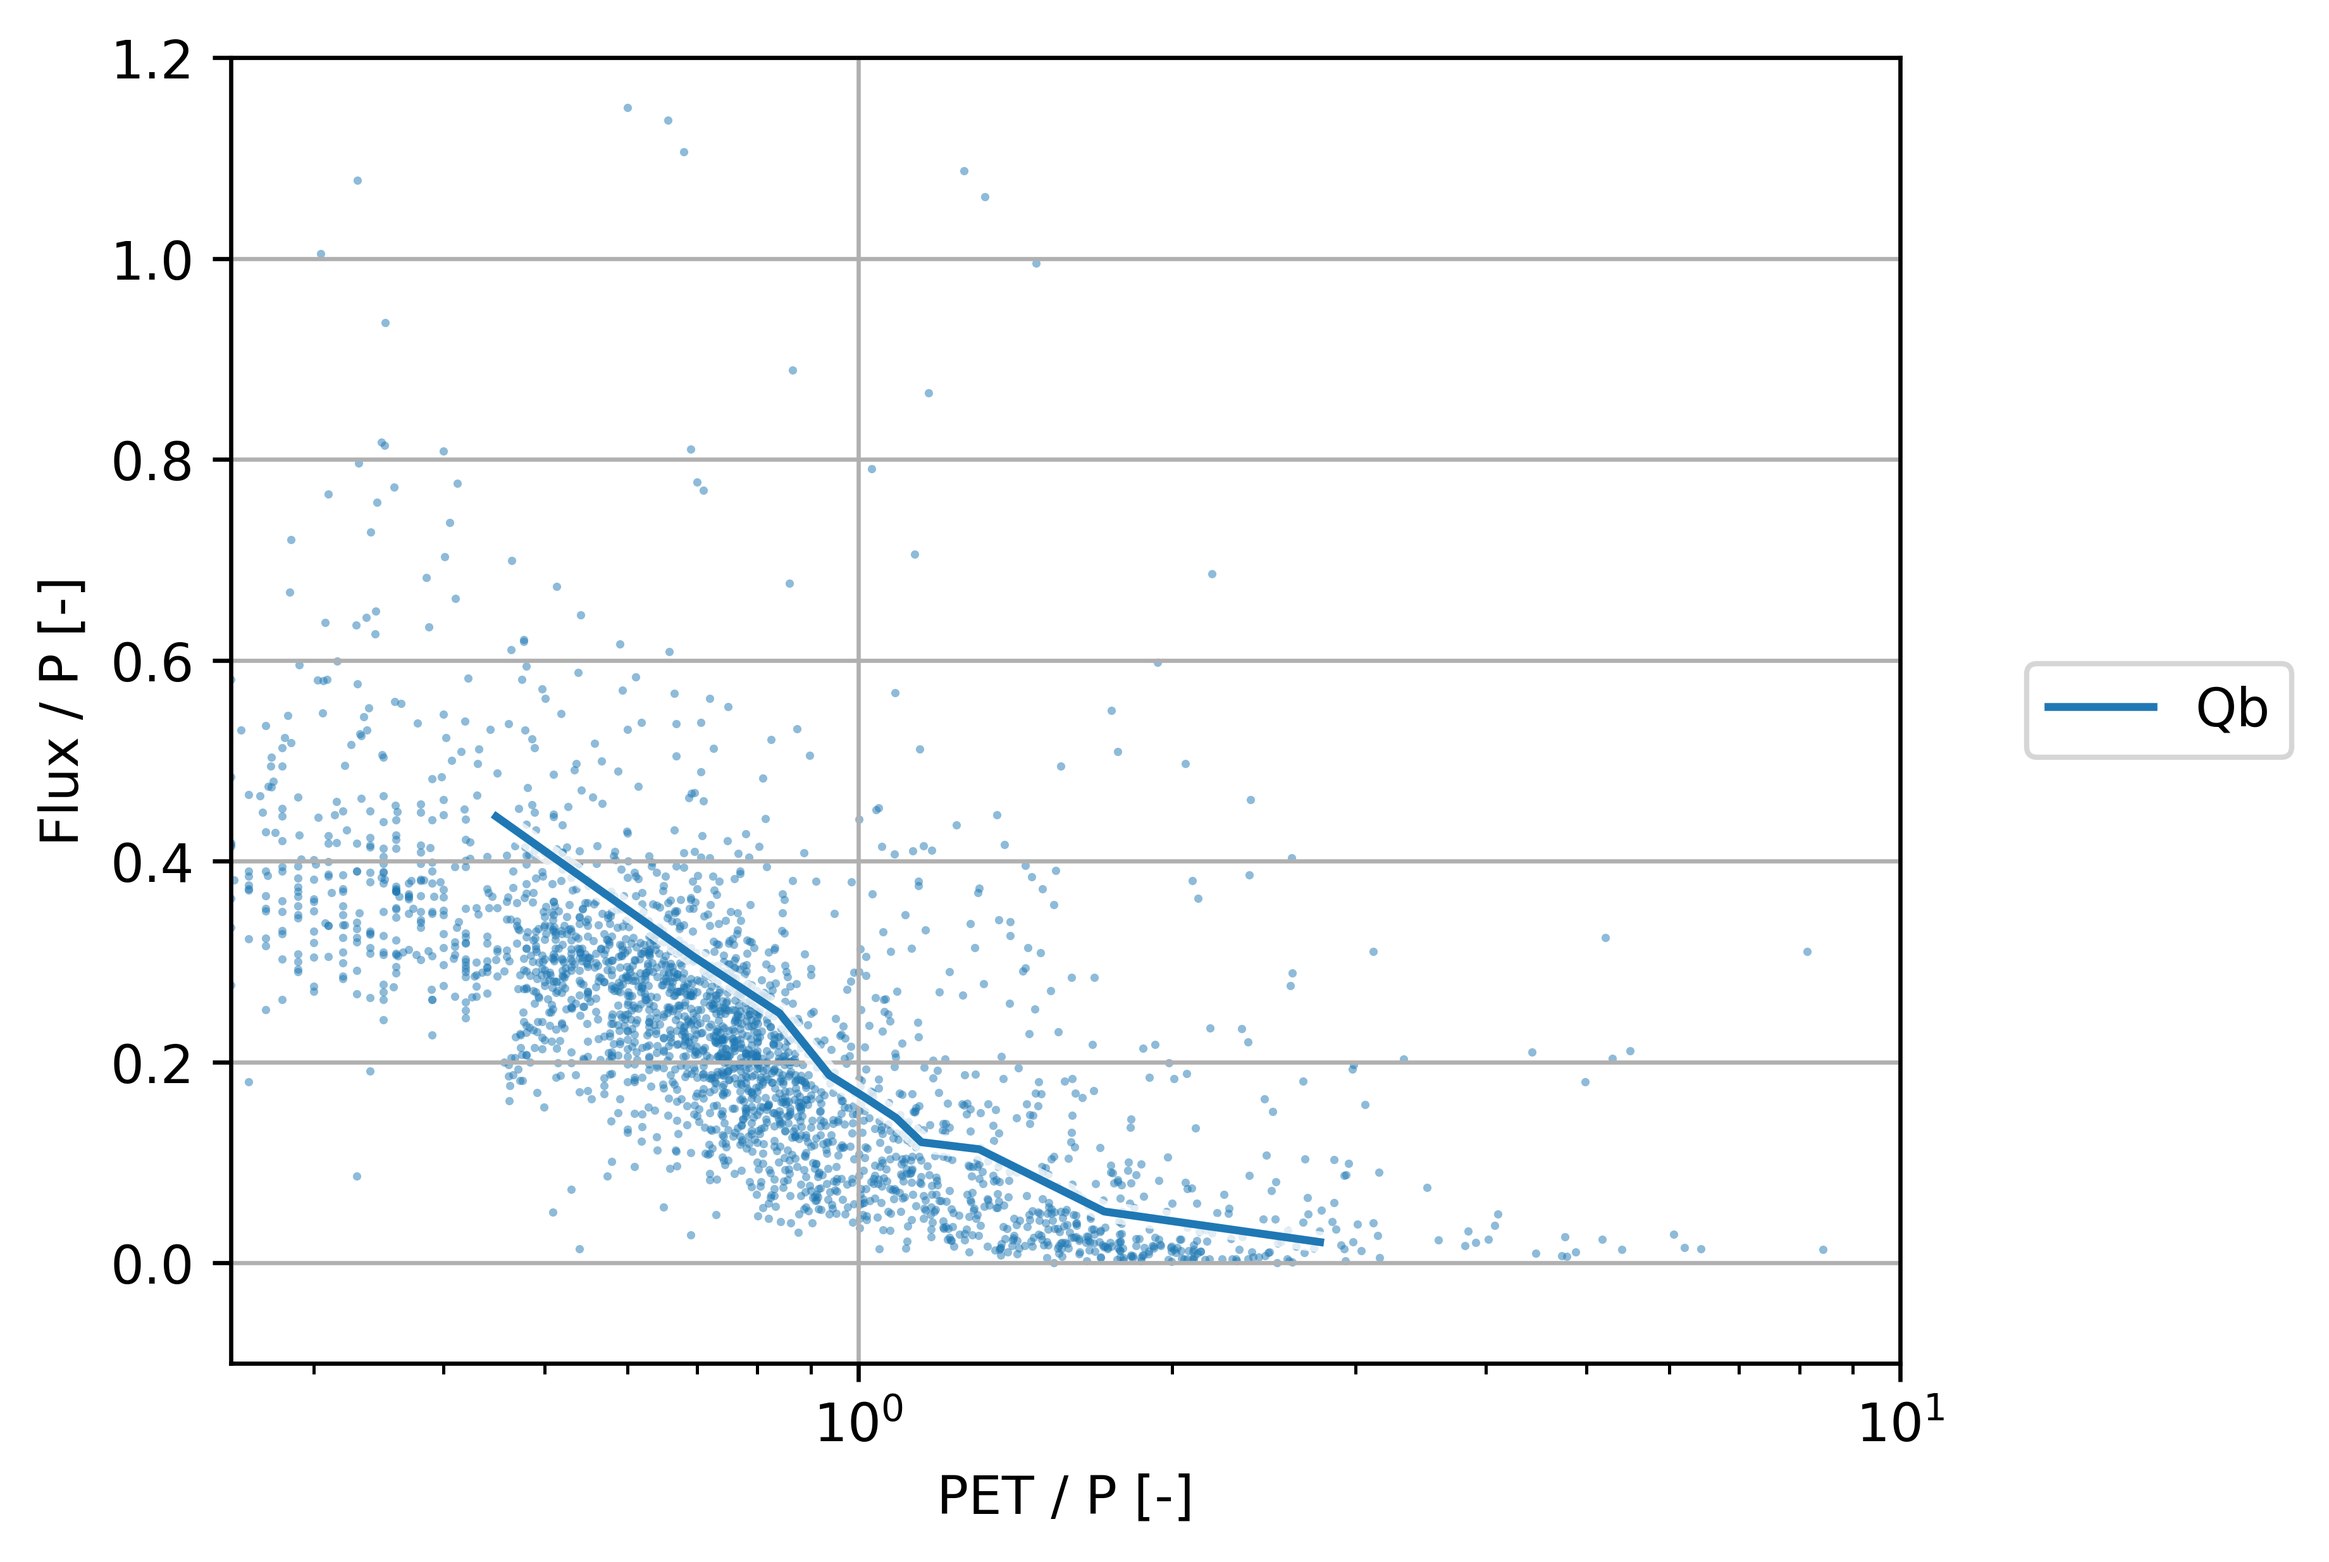
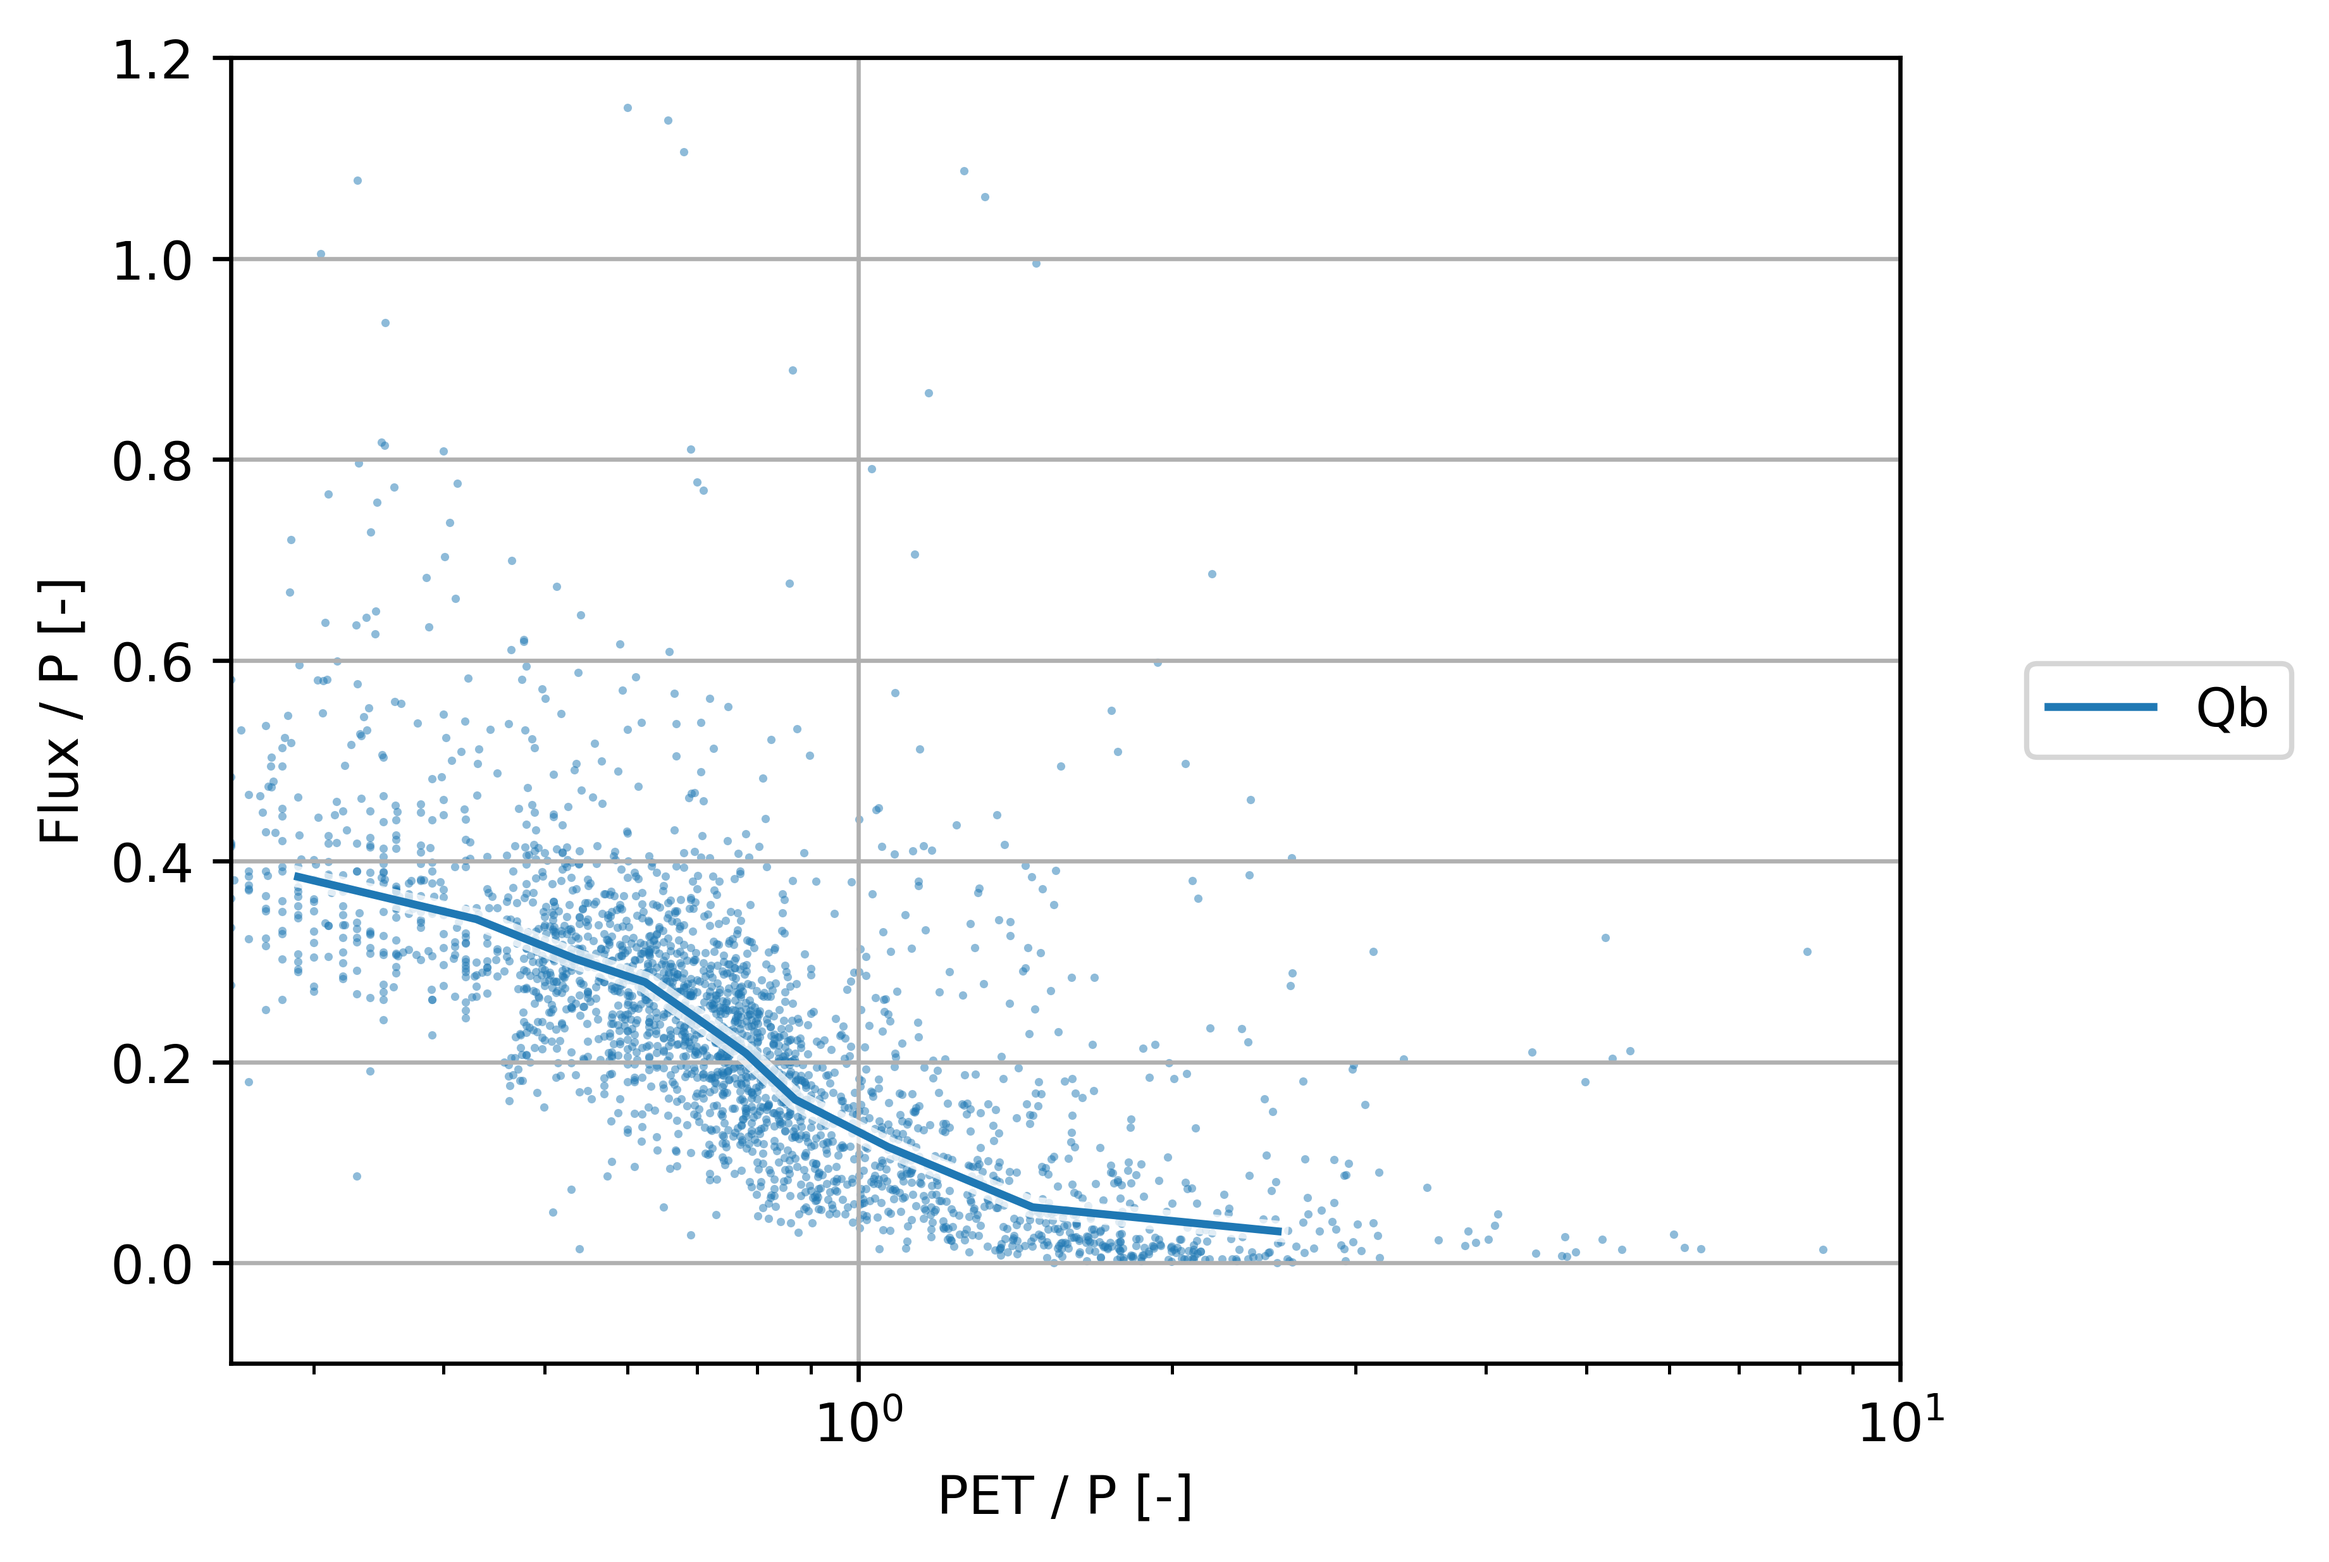
maintenance

diff --git a/Budyko_analysis_different_fluxes.py b/Budyko_analysis_different_fluxes.py
@@ -141,6 +141,12 @@ df = df.dropna()
 df_FLUXCOM = df
 print("Finished FLUXCOM.")
 
+# Cuthbert
+data_path = "C:/Users/gnann/Documents/PYTHON/Recharge/results/"
+df = pd.read_csv(data_path + "green-roofs_deep_drainage.csv")
+df_Cuthbert = df
+print("Finished Cuthbert.")
+
 def Budyko_curve(aridity, **kwargs):
     # Budyko, M.I., Miller, D.H. and Miller, D.H., 1974. Climate and life (Vol. 508). New York: Academic press.
     return np.sqrt(aridity * np.tanh(1 / aridity) * (1 - np.exp(-aridity)));
@@ -155,27 +161,29 @@ def Berghuijs_recharge_curve(aridity):
 print("Several fluxes Budyko")
 fig = plt.figure(figsize=(6, 4), constrained_layout=True)
 axes = plt.axes()
-#im = axes.scatter(df_FLUXCOM["aridity_netrad_gswp3"], 1-df_FLUXCOM["LE"]/df_FLUXCOM["pr_gswp3"], s=1, c="#fb9a99", alpha=0.25, lw=0)
+#im = axes.scatter(df_FLUXCOM["aridity_netrad_gswp3"], 1-df_FLUXCOM["LE"]/df_FLUXCOM["pr_gswp3"], s=1, c="#F7C188", alpha=0.25, lw=0)
 #im = axes.scatter(df_Caravan["aridity"], (df_Caravan["Q_mean"]/df_Caravan["p_mean"]), s=2.5, c="#a6cee3", alpha=0.25, lw=0)
 #im = axes.scatter(df_Caravan["aridity"], ((df_Caravan["BFI"]*df_Caravan["Q_mean"])/df_Caravan["p_mean"]), s=2.5, c="#1f78b4", alpha=0.25, lw=0)
-#im = axes.scatter(df_CAMELS["aridity"], df_CAMELS["runoff_ratio"], s=2.5, c="#a6cee3", alpha=0.25, lw=0)
-#im = axes.scatter(df_CAMELS["aridity"], (df_CAMELS["BFI"]*df_CAMELS["runoff_ratio"]), s=2.5, c="#1f78b4", alpha=0.25, lw=0)
+im = axes.scatter(df_CAMELS["aridity"], df_CAMELS["runoff_ratio"], s=2.5, c="#a6cee3", alpha=0.25, lw=0)
+im = axes.scatter(df_CAMELS["aridity"], (df_CAMELS["BFI"]*df_CAMELS["runoff_ratio"]), s=2.5, c="#1f78b4", alpha=0.25, lw=0)
 #im = axes.scatter(df_CAMELS["aridity"], (1-(1-df_CAMELS["BFI"])*df_CAMELS["runoff_ratio"]), s=2.5, c="#a35a4e", alpha=0.25, lw=0)
-#im = axes.scatter(df_Moeck["aridity_netrad_gswp3"], (df_Moeck["Groundwater recharge [mm/y]"]/df_Moeck["pr_gswp3"]), s=2.5, c="#b2df8a", alpha=0.25, lw=0)
-#im = axes.scatter(df_MacDonald["aridity_netrad_gswp3"], (df_MacDonald["Recharge_mmpa"]/df_MacDonald["pr_gswp3"]), s=2.5, c="#33a02c", alpha=0.25, lw=0)
+im = axes.scatter(df_Moeck["aridity_netrad_gswp3"], (df_Moeck["Groundwater recharge [mm/y]"]/df_Moeck["pr_gswp3"]), s=2.5, c="#b2df8a", alpha=0.25, lw=0)
+im = axes.scatter(df_MacDonald["aridity_netrad_gswp3"], (df_MacDonald["Recharge_mmpa"]/df_MacDonald["pr_gswp3"]), s=2.5, c="#33a02c", alpha=0.25, lw=0)
 #im = axes.scatter(df_FLUXNET["Aridity"], 1-df_FLUXNET["LATENT HEAT FLUX"]/df_FLUXNET["PRECIPITATION"], s=2.5, c="#f85656", alpha=0.25, lw=0)
-plotting_fcts.plot_lines_group(df_FLUXCOM["aridity_netrad_gswp3"], df_FLUXCOM["LE"]/df_FLUXCOM["pr_gswp3"], "#fb9a99", n=11, label='ET')
+plotting_fcts.plot_lines_group(df_FLUXCOM["aridity_netrad_gswp3"], 1-df_FLUXCOM["LE"]/df_FLUXCOM["pr_gswp3"], "#F7C188", n=11, label='ET')
 #plotting_fcts.plot_lines_group(df_Caravan["aridity"], (df_Caravan["Q_mean"]/df_Caravan["p_mean"]), "#a6cee3", n=11, label='Qtot')
 #plotting_fcts.plot_lines_group(df_Caravan["aridity"], ((df_Caravan["BFI"]*df_Caravan["Q_mean"])/df_Caravan["p_mean"]), "#1f78b4", n=11, label='Qb')
 plotting_fcts.plot_lines_group(df_CAMELS["aridity"], df_CAMELS["runoff_ratio"], "#a6cee3", n=11, label='Qtot')
 plotting_fcts.plot_lines_group(df_CAMELS["aridity"], (df_CAMELS["BFI"]*df_CAMELS["runoff_ratio"]), "#1f78b4", n=11, label='Qb')
-plotting_fcts.plot_lines_group(df_CAMELS["aridity"], (1-(1-df_CAMELS["BFI"])*df_CAMELS["runoff_ratio"]), "#a35a4e", n=11, label='P-Qf')
+#plotting_fcts.plot_lines_group(df_CAMELS["aridity"], (1-(1-df_CAMELS["BFI"])*df_CAMELS["runoff_ratio"]), "#CEA97C", n=11, label='P-Qf')
 plotting_fcts.plot_lines_group(df_Moeck["aridity_netrad_gswp3"], df_Moeck["Groundwater recharge [mm/y]"]/df_Moeck["pr_gswp3"], "#b2df8a", n=11, label='GWR1')
 plotting_fcts.plot_lines_group(df_MacDonald["aridity_netrad_gswp3"], df_MacDonald["Recharge_mmpa"]/df_MacDonald["pr_gswp3"], "#33a02c", n=6, label='GWR2')
 #plotting_fcts.plot_lines_group(df_FLUXNET["Aridity"], 1-df_FLUXNET["LATENT HEAT FLUX"]/df_FLUXNET["PRECIPITATION"], "#f85656", n=6, label='1-ET2')
+#plotting_fcts.plot_lines_group(df_Cuthbert["PET"]/df_Cuthbert["P"], df_Cuthbert["AET"]/df_Cuthbert["P"], "#c26900", n=11, label='ET/P')
+plotting_fcts.plot_lines_group(df_Cuthbert["PET"]/df_Cuthbert["P"], df_Cuthbert["D(=P-AET)"]/df_Cuthbert["P"], "#A496CF", n=11, label='D/P')
 im = axes.plot(np.linspace(0.1,10,100), 1-Budyko_curve(np.linspace(0.1,10,100)), "--", c="black", alpha=0.75)
-im = axes.plot(np.linspace(0.1,10,100), Berghuijs_recharge_curve(np.linspace(0.1,10,100)), "--", c="black", alpha=0.75)
 im = axes.plot(np.linspace(0.1,10,100), 1-Budyko_curve(np.linspace(0.1,10,100)), "--", c="#a6cee3", alpha=0.75, label="Budyko")
+im = axes.plot(np.linspace(0.1,10,100), Berghuijs_recharge_curve(np.linspace(0.1,10,100)), "--", c="black", alpha=0.75)
 im = axes.plot(np.linspace(0.1,10,100), Berghuijs_recharge_curve(np.linspace(0.1,10,100)), "--", c="#b2df8a", alpha=0.75, label="Berghuijs")
 axes.set_xlabel("PET / P [-]")
 axes.set_ylabel("Flux / P [-]")
@@ -197,6 +205,7 @@ im = axes.scatter(df_Moeck["aridity_netrad_gswp3"], (df_Moeck["Groundwater recha
 im = axes.scatter(df_MacDonald["aridity_netrad_gswp3"], (df_MacDonald["Recharge_mmpa"]/df_MacDonald["pr_gswp3"]), s=2.5, c="#33a02c", alpha=0.25, lw=0)
 plotting_fcts.plot_lines_group(df_Moeck["aridity_netrad_gswp3"], df_Moeck["Groundwater recharge [mm/y]"]/df_Moeck["pr_gswp3"], "#b2df8a", n=11, label='GWR1')
 plotting_fcts.plot_lines_group(df_MacDonald["aridity_netrad_gswp3"], df_MacDonald["Recharge_mmpa"]/df_MacDonald["pr_gswp3"], "#33a02c", n=6, label='GWR2')
+plotting_fcts.plot_lines_group(df_Cuthbert["PET"]/df_Cuthbert["P"], df_Cuthbert["D(=P-AET)"]/df_Cuthbert["P"], "#A496CF", n=11, label='D/P')
 m = axes.plot(np.linspace(0.1,10,100), Berghuijs_recharge_curve(np.linspace(0.1,10,100)), "--", c="black", alpha=0.75)
 im = axes.plot(np.linspace(0.1,10,100), Berghuijs_recharge_curve(np.linspace(0.1,10,100)), "--", c="#b2df8a", alpha=0.75, label="Berghuijs")
 axes.set_xlabel("PET / P [-]")
@@ -209,7 +218,6 @@ axes.set_xscale('log')
 plotting_fcts.plot_grid(axes)
 fig.savefig(figures_path + "Budyko_recharge.png", dpi=600, bbox_inches='tight')
 plt.close()
-
 
 # plot P-R plot
 print("Precipitation Recharge")
@@ -227,13 +235,31 @@ axes.grid()
 fig.savefig(figures_path + "precipitation_recharge.png", dpi=600, bbox_inches='tight')
 plt.close()
 
+# plot Budyko plot using Cuthbert potential drainage data
+print("Cuthbert Potential Drainage")
+fig = plt.figure(figsize=(6, 4), constrained_layout=True)
+axes = plt.axes()
+im = axes.scatter(df_Cuthbert["PET"]/df_Cuthbert["P"], df_Cuthbert["AET"]/df_Cuthbert["P"], s=0.5, c="#7B654A", alpha=0.1, lw=0)
+plotting_fcts.plot_lines_group(df_Cuthbert["PET"]/df_Cuthbert["P"], df_Cuthbert["AET"]/df_Cuthbert["P"], "#7B654A", n=11, label='ET/P')
+im = axes.scatter(df_Cuthbert["PET"]/df_Cuthbert["P"], df_Cuthbert["D(=P-AET)"]/df_Cuthbert["P"], s=0.5, c="#A496CF", alpha=0.1, lw=0)
+plotting_fcts.plot_lines_group(df_Cuthbert["PET"]/df_Cuthbert["P"], df_Cuthbert["D(=P-AET)"]/df_Cuthbert["P"], "#A496CF", n=11, label='D/P')
+axes.set_xlabel("PET / P [-]")
+axes.set_ylabel("Flux / P [-]")
+axes.set_xlim([0.25, 10])
+#axes.set_xlim([0, 5])
+axes.set_ylim([-0.1, 1.2])
+axes.legend(loc='center right', bbox_to_anchor=(1.25, 0.5))
+axes.set_xscale('log')
+axes.grid()
+fig.savefig(figures_path + "Budyko_Cuthbert.png", dpi=600, bbox_inches='tight')
+plt.close()
 
 # plot standard Budyko plot
 print("Baseflow Budyko")
 fig = plt.figure(figsize=(6, 4), constrained_layout=True)
 axes = plt.axes()
 im = axes.scatter(df_CAMELS["aridity"], (df_CAMELS["BFI"]*df_CAMELS["runoff_ratio"]), s=2.5, c="#1f78b4", alpha=0.5, lw=0)
-plotting_fcts.plot_lines_group(df_Caravan["aridity"], ((df_Caravan["BFI"]*df_Caravan["Q_mean"])/df_Caravan["p_mean"]), "#1f78b4", n=11, label='Qb')
+plotting_fcts.plot_lines_group(df_CAMELS["aridity"], (df_CAMELS["BFI"]*df_CAMELS["runoff_ratio"]), "#1f78b4", n=11, label='Qb')
 axes.set_xlabel("PET / P [-]")
 axes.set_ylabel("Flux / P [-]")
 axes.set_xlim([0.25, 10])
@@ -245,8 +271,7 @@ axes.grid()
 fig.savefig(figures_path + "Budyko_baseflow.png", dpi=600, bbox_inches='tight')
 plt.close()
 
-
-# plot standard Budyko plot
+# plot standard Budyko plot for baseflow
 print("Baseflow Budyko")
 fig = plt.figure(figsize=(6, 4), constrained_layout=True)
 axes = plt.axes()
@@ -264,7 +289,6 @@ axes.grid()
 axes.set_xscale('log')
 fig.savefig(figures_path + "Budyko_comparison.png", dpi=600, bbox_inches='tight')
 plt.close()
-
 
 #plotting_fcts.plot_Budyko_limits(df_Caravan["aridity_netrad"], df_Caravan["streamflow"])
 #axes.plot(np.linspace(0, 1, 100), np.linspace(1, 0, 100), '--', c='gray')

diff --git a/MiguezMachoData.py b/MiguezMachoData.py
@@ -1,0 +1,29 @@
+import matplotlib.pyplot as plt
+import numpy as np
+import pandas as pd
+import os
+from functions import get_nearest_neighbour, plotting_fcts
+import geopandas as gpd
+from shapely.geometry import Point
+from functions.weighted_mean import weighted_temporal_mean
+import xarray as xr
+
+# This script loads and analyses Caravan data.
+
+# check if folders exist
+results_path = "results/"
+if not os.path.isdir(results_path):
+    os.makedirs(results_path)
+figures_path = "figures/"
+if not os.path.isdir(figures_path):
+    os.makedirs(figures_path)
+
+# load data
+
+# load data
+data_path = "D:/Data/MiguezMacho2021/"
+df = ds = xr.open_dataset(data_path + "AUSTRALIA_sources_annualmean.nc")
+df = ds.to_dataframe()
+print("Finished loading data.")
+
+
